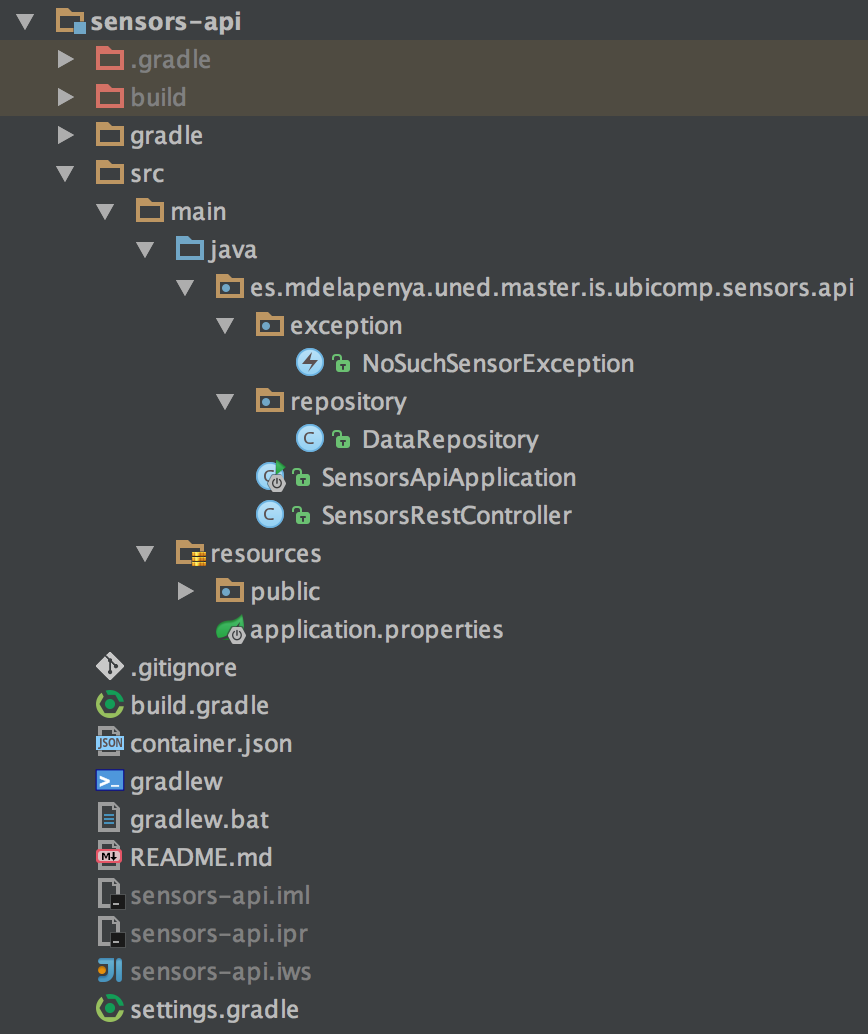
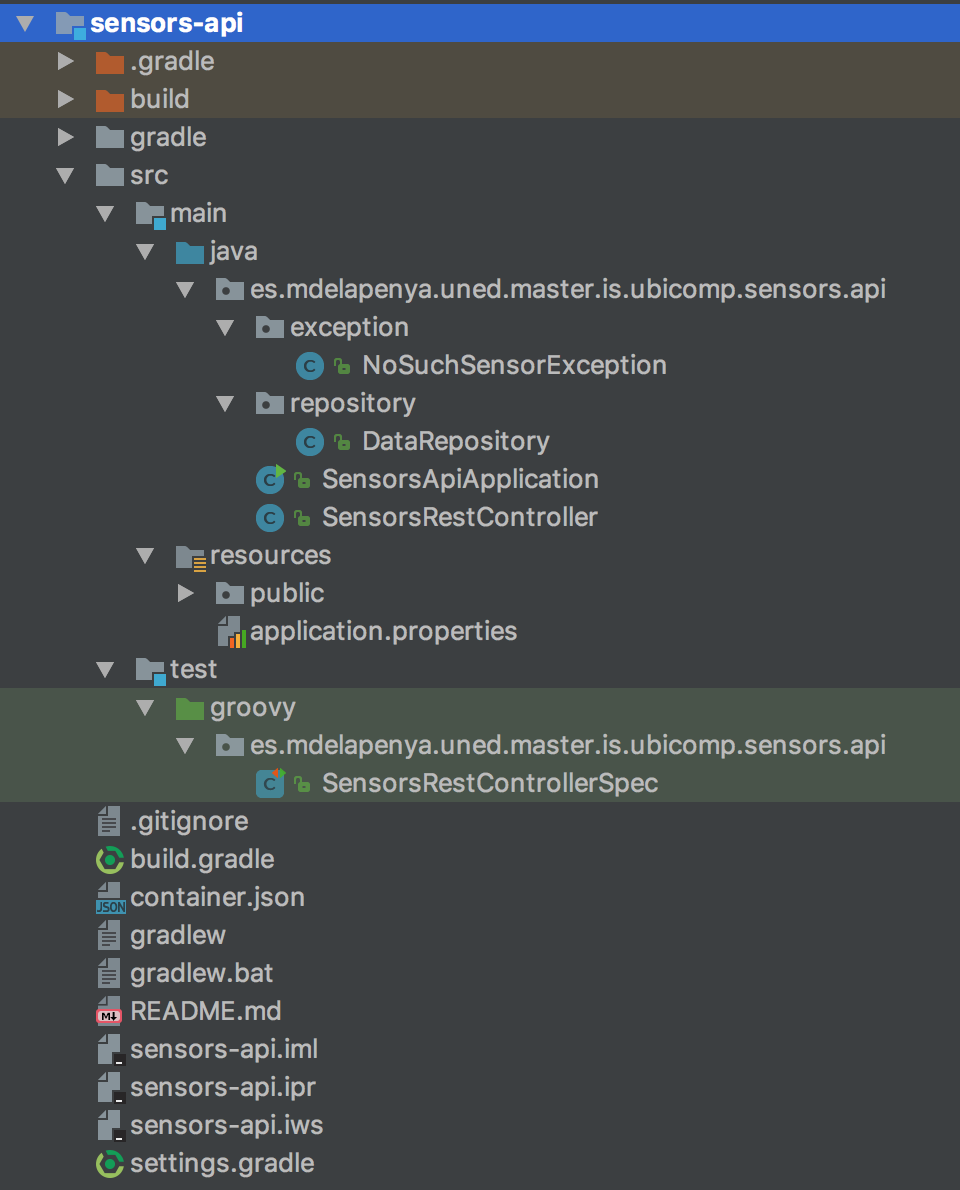
Document tests

Changed region(s): [[0.0, 0.0, 1.0, 0.9903]]

diff --git a/sensors-api/README.md b/sensors-api/README.md
@@ -112,7 +112,7 @@ Dentro de `src` se sigue una estructura igual a la definida por `Maven`:
 * `src/main/resources` para los ficheros de configuración de Spring, así como los recursos estáticos
 de la aplicación: páginas HTML de error y CSS, por ejemplo.
 * `src/test` para los tests unitarios.
-* `src/testIntegration` para los tests de integración.
+* `src/test/groovy` para los tests de integración.
 
 En la siguiente imagen aparecen los elementos antes mencionados:
 
@@ -273,3 +273,153 @@ HTTP POST que recibe la aplicación, la anotación `@RequestBody` indica que la 
 un objeto en formato JSON que pueda ser parseado al objeto `Metric`, de modo que los campos del objeto
 JSON se correspondan con los atributos de la clase `Metric`. Este parseo lo realizan las clases de la
 librería de serialización y parseo JSON `Jackson`, incluída por defecto en `Spring Boot`.
+
+### Tests
+
+En el directorio `./src/test/groovy`, en el mismo paquete raíz que el controlador que representa los
+endpoints REST, se encuentra el fichero `Groovy` representando los tests que prueba las llamadas HTTP
+al API, llamado `SensorsRestControllerSpec.groovy`.
+
+Esta clase `.groovy`, que extiende la clase `Specification` de `Spock`, utiliza el ciclo de vida habitual
+de los tests, disponiendo de un método de inicialización de cada test, nombrado `setupSpec` y que se
+ejecuta antes de cada método de test, y un método de liberación de recursos de cada test, nombrado
+`cleanupSpec` y que se ejecuta tras cada método de test.
+
+#### Inicialización de los tests
+
+Antes de cada método de tests se inicializa el cliente HTTP, definido en la variable con ámbito global
+al test `restClient`, definiendo las cabeceras HTTP a utilizar en las llamadas, así como la gestión
+de errores. Esta gestión es necesaria puesto que el API no falla ante errores, sino que devuelve los
+códigos de estado adecuados, y el cliente HTTP tiene que conocer este comportamiento, de lo contrario
+tratará un código de retorno distinto al 200 como un error no controlado en la ejecución.
+
+Además, se lleva una cuenta del número de métricas que existen en el momento de la petición, de modo
+que en cada inserción se pueda verificar que al invocar una petición `POST` para escribir una métrica,
+se pueda realizar otra peticion `GET` de lectura y verificar que se ha incrementado el valor del total
+de métricas en la plataforma.
+
+```groovy
+class SensorsRestControllerSpec extends Specification {
+
+	@Shared
+	def SENSOR_ID = "sensorId"
+
+	@Shared
+	RESTClient restClient
+
+	@Shared
+	def initialCount
+
+	def setupSpec() {
+		restClient = new RESTClient("http://api.mdelapenya-sensors.wedeploy.io")
+
+		restClient.headers.Accept = 'application/json'
+		restClient.handler.failure  = restClient.handler.success
+
+		def listResponse = restClient.get(path : "/sensors")
+		initialCount = listResponse.data.size()
+	}
+
+	... 
+}
+```
+
+#### Liberación de recursos en los tests
+
+Tras la ejecución de cada método de tests se invoca el cliente HTTP para que realice una petición
+`DELETE` sobre el recurso `/sensors/:sensorId`, donde `:sensorId` representa el identificador del
+sensor a eliminar. Se ha definido una constante con ámbito global a los tests que asigna siempre el
+mismo valor al parámetro, de modo que se borren los datos creados en los tests. 
+
+```groovy
+
+	...
+
+	@Shared
+		def SENSOR_ID = "sensorId"
+
+	...
+
+	def cleanupSpec() {
+		restClient.delete(
+			path : "/sensors/" + SENSOR_ID,
+			contentType:'application/json'
+		)
+	}
+
+	...
+
+```
+
+#### Tests que comprueban los códigos de respuesta de los diferentes endpoints GET del API
+
+Se ha escrito un único test para verificar el código de respuesta, `def 'Check endpoints'() {...}`, y
+aprovechando la potencia del framework `Spock`, se ha definido una tabla de valores por las cuales
+el test itera y ejecuta un test por cada fila en una tabla de datos representando los diferentes valores
+de entrada al test, así como sus respectivos valores de salida esperados.
+
+Además, se definen con claridad los bloques `WHEN` y `THEN` habituales en los tests orientados al
+comportamiento, o *BDD (Behaviour Driven Development)*, representando respectivamente los diferentes
+pasos de un test:
+
+* Dado un cliente HTTP (referido a la inicialización de los tests)
+* Cuando se ejecuta una petición `GET` al recurso X (bloque WHEN)
+* Entonces el estado HTTP de la respuesta es Y (bloque THEN)
+* Con los valores definidos en la tabla en la que la primera columna representa el path del recurso, y
+la segunda columna representa el código de respuesta esperado. (bloque WHERE)
+
+```groovy
+@Unroll("Check that #expectedHttpStatus is the HTTP status for #path endpoint")
+def 'Check endpoints'() {
+    when: "when requesting a resource"
+    def response = restClient.get( path: path)
+
+    then: "HTTP status is #expectedHttpStatus"
+    assert response.status == expectedHttpStatus
+
+    where:
+    path            | expectedHttpStatus
+    "/"             | 404
+    "/sensors"      | 200
+    "/sensors/foo"  | 404
+}
+```
+
+#### Tests que comprueban el código de respuesta de la creación de métricas
+
+Se ha escrito un único test para verificar que al insertar una métrica y recuperar todas las métricas
+de la plataforma, la nueva métrica incrementa la cantidad de métricas en la plataforma,
+`def 'Creating a metric'() {...}`.
+
+Además, se definen con claridad los bloques `WHEN` y `THEN` habituales en los tests orientados al
+comportamiento, o *BDD (Behaviour Driven Development)*, representando respectivamente los diferentes
+pasos de un test:
+
+* Dado un cliente HTTP (referido a la inicialización de los tests)
+* Cuando se ejecuta una petición `POST` al recurso `/sensors` con una métrica creada a tal efecto,
+con valores por defecto (bloque WHEN)
+* Y además cuando se hace una petición `GET` para obtener la lista de métricas en la plataforma
+(bloque AND)
+* Entonces la lista contiene un elemento más que en la fase de inicialización del test (bloque THEN)
+
+```groovy
+def "Creating a metric"() {
+    when: "a new metric is created"
+    def metric = new SensorMetric(
+        SENSOR_ID, "spock-test", 39.862846,
+        -4.024904, 21, "temperature", "Celsius",
+        new Date().getTime())
+
+    restClient.post(
+        path : "/sensors",
+        body: metric.toString(),
+        contentType:'application/json'
+    )
+
+    and: "metrics list is requested"
+    def listResponse = restClient.get(path : "/sensors")
+
+    then: "metrics list should contain one more element"
+    assert initialCount +1 == listResponse.data.size()
+}
+```

diff --git a/README.md b/README.md
@@ -268,7 +268,15 @@ Debido a la simplicidad del proyecto, no se han escrito tests unitarios para los
 
 ### Tests de integración
 
-<!-- TODO -->
+Respecto a las pruebas de integración, se han escrito tests que prueban las llamadas HTTP al microservicio
+del API Java, verificando que los código de respuesta HTTP son los adecuados para cada prueba.
+
+Para el lenguaje de programación de estos tests se ha elegido [`Spock`](http://spockframework.org), que es un framework de testing
+y especificación para aplicaciones Java y Groovy, inspirado en JUnit, jMock, RSpec, Groovy, Scala,
+Vulcans, entre otros.
+
+Estos tests de integración, que prueban las llamadas HTTP al API, se encuentran en [este directorio](./sensors-api/src/test),
+encontrándose la documentación asociada a dichos tests igualmente en [el siguiente enlace](./sensors-api/README.md#Tests).
 
 ### Exploratory Testing
 
